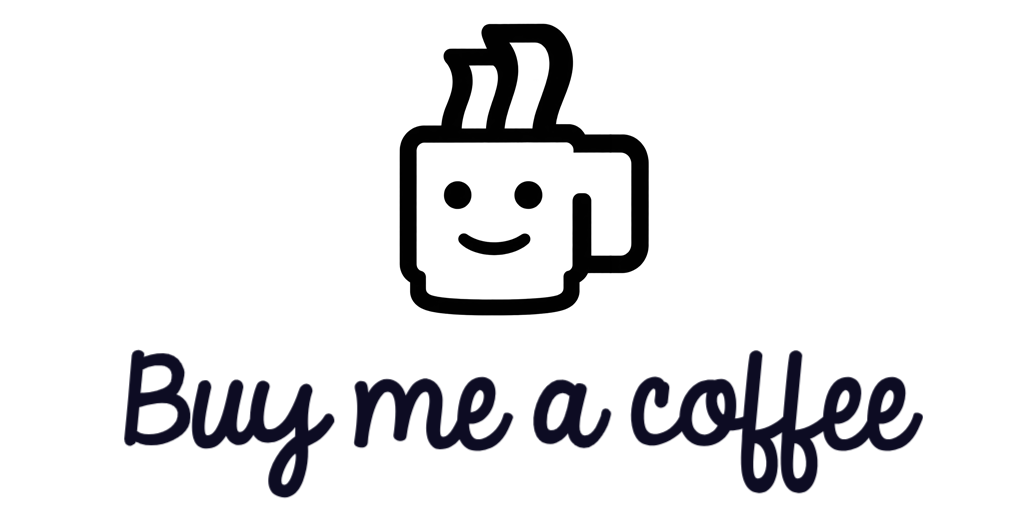
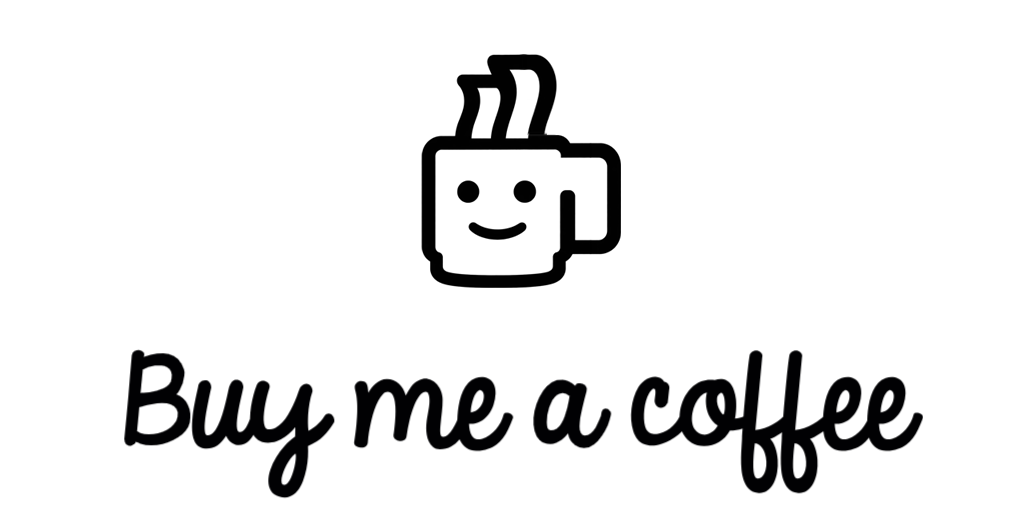
Replace support artwork variants

Changed region(s): [[0.125, 0.6875, 0.9062, 0.9688], [0.375, 0.0312, 0.6562, 0.625]]

diff --git a/privacy.html b/privacy.html
@@ -63,8 +63,8 @@
     <p>For privacy questions or deletion requests, contact <a href="mailto:contact@cmcollector.com">contact@cmcollector.com</a>.</p>
 
     <div class="policy-support">
-      <img class="light-art" src="buymecoffee.png" width="1024" height="512" alt="Buy me a coffee">
-      <img class="dark-art" src="buymecoffee-inverted.png" width="1024" height="512" alt="Buy me a coffee">
+      <img class="light-art" src="buymecoffee.png?v=2" width="1024" height="512" alt="Buy me a coffee">
+      <img class="dark-art" src="buymecoffee-inverted.png?v=2" width="1024" height="512" alt="Buy me a coffee">
     </div>
   </main>
 </body>

diff --git a/index.html b/index.html
@@ -59,7 +59,7 @@
   <script src="https://accounts.google.com/gsi/client" async defer></script>
   <script src="https://apis.google.com/js/api.js" async defer></script>
   <script src="demo-catalogue.js?v=20260902-1"></script>
-  <script src="app.js?v=20260904-4"></script>
+  <script src="app.js?v=20260904-5"></script>
   <script src="mobile-tag-behavior.js?v=20260719-3"></script>
   <script src="date-time-format.js?v=20260903-9"></script>
   <script type="module" src="firebase-sync.js?v=20260903-9"></script>
